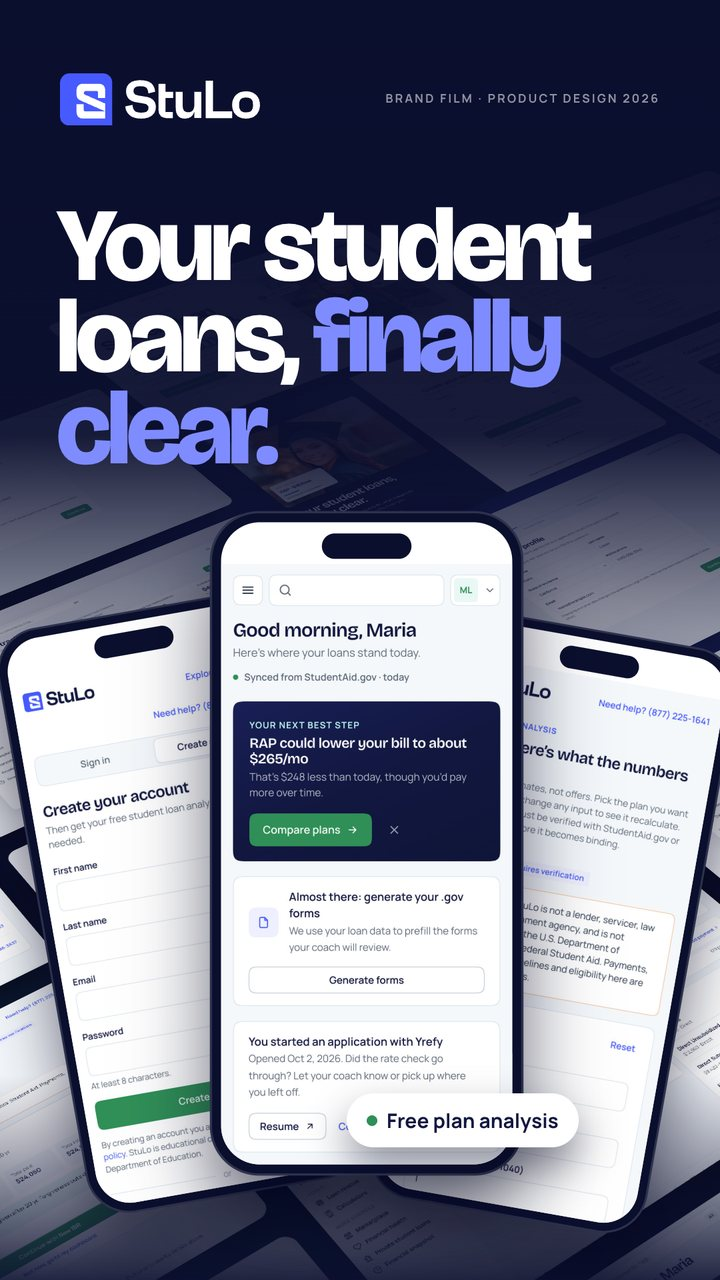
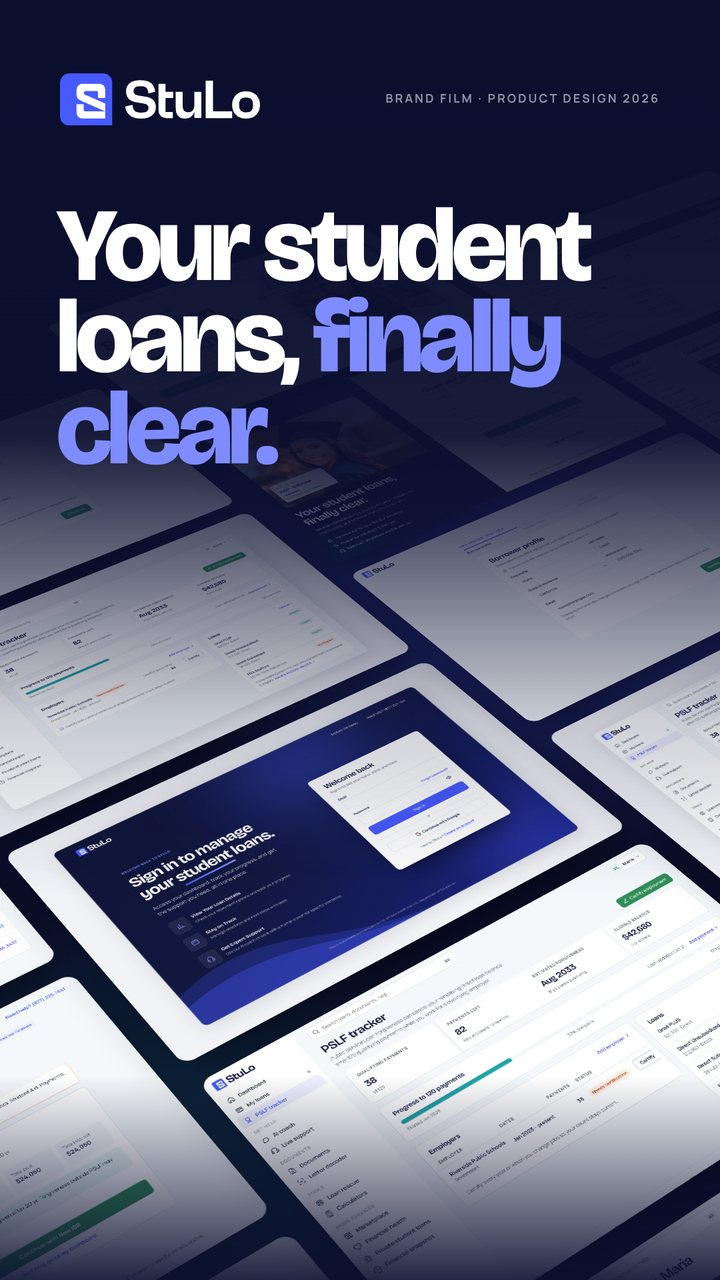
StuLo film posters: screens wall only, no phones

diff --git a/ru.html b/ru.html
@@ -1024,7 +1024,7 @@ dialog.sheet[open]{animation:pop .45s var(--ease)}
         <dl class="wk-kpi"><div><dt>Веб</dt><dd>Тип продукта</dd></div><div><dt>Дизайн-лид</dt><dd>Моя роль</dd></div><div><dt>4 недели</dt><dd>Длительность</dd></div></dl>
         <span class="wk-cta">Смотреть кейс</span>
       </div>
-      <div class="wk-vis wk-img pvw sq" data-r="20"><div class="pv-ph sq" data-r="18"><video class="cvid" src="reel/stulo/stulo-reel-card.mp4?v=2" poster="reel/stulo/stulo-reel-card.jpg?v=2" muted loop playsinline preload="none" aria-label="StuLo"></video><button class="cplay" type="button" aria-label="Воспроизвести видео"><span class="ic"><svg viewBox="0 0 16 16" fill="currentColor"><path d="M5 3.2v9.6a.6.6 0 0 0 .9.5l7.6-4.8a.6.6 0 0 0 0-1L5.9 2.7a.6.6 0 0 0-.9.5z"/></svg></span><span class="tx">Смотреть ролик</span><span class="tm">0:14</span></button></div></div>
+      <div class="wk-vis wk-img pvw sq" data-r="20"><div class="pv-ph sq" data-r="18"><video class="cvid" src="reel/stulo/stulo-reel-card.mp4?v=2" poster="reel/stulo/stulo-reel-card.jpg?v=3" muted loop playsinline preload="none" aria-label="StuLo"></video><button class="cplay" type="button" aria-label="Воспроизвести видео"><span class="ic"><svg viewBox="0 0 16 16" fill="currentColor"><path d="M5 3.2v9.6a.6.6 0 0 0 .9.5l7.6-4.8a.6.6 0 0 0 0-1L5.9 2.7a.6.6 0 0 0-.9.5z"/></svg></span><span class="tx">Смотреть ролик</span><span class="tm">0:14</span></button></div></div>
     </a>
     <a class="wk wk-photo sq" data-r="28" data-cursor="Открыть кейс +" href="cases/bookkeeper-ai.html" style="--bg:var(--band);--ih:80%;--fg:#1d1d1f;--fg2:#3a3a3c;--ln:rgba(0,0,0,.12)">
       <div class="wk-info">

diff --git a/index.html b/index.html
@@ -1024,7 +1024,7 @@ dialog.sheet[open]{animation:pop .45s var(--ease)}
         <dl class="wk-kpi"><div><dt>Web</dt><dd>Product type</dd></div><div><dt>Design Lead</dt><dd>My role</dd></div><div><dt>4 weeks</dt><dd>Duration</dd></div></dl>
         <span class="wk-cta">View case</span>
       </div>
-      <div class="wk-vis wk-img pvw sq" data-r="20"><div class="pv-ph sq" data-r="18"><video class="cvid" src="reel/stulo/stulo-reel-card.mp4?v=2" poster="reel/stulo/stulo-reel-card.jpg?v=2" muted loop playsinline preload="none" aria-label="StuLo"></video><button class="cplay" type="button" aria-label="Play video"><span class="ic"><svg viewBox="0 0 16 16" fill="currentColor"><path d="M5 3.2v9.6a.6.6 0 0 0 .9.5l7.6-4.8a.6.6 0 0 0 0-1L5.9 2.7a.6.6 0 0 0-.9.5z"/></svg></span><span class="tx">Play film</span><span class="tm">0:14</span></button></div></div>
+      <div class="wk-vis wk-img pvw sq" data-r="20"><div class="pv-ph sq" data-r="18"><video class="cvid" src="reel/stulo/stulo-reel-card.mp4?v=2" poster="reel/stulo/stulo-reel-card.jpg?v=3" muted loop playsinline preload="none" aria-label="StuLo"></video><button class="cplay" type="button" aria-label="Play video"><span class="ic"><svg viewBox="0 0 16 16" fill="currentColor"><path d="M5 3.2v9.6a.6.6 0 0 0 .9.5l7.6-4.8a.6.6 0 0 0 0-1L5.9 2.7a.6.6 0 0 0-.9.5z"/></svg></span><span class="tx">Play film</span><span class="tm">0:14</span></button></div></div>
     </a>
     <a class="wk wk-photo sq" data-r="28" data-cursor="Open case +" href="cases/bookkeeper-ai.html" style="--bg:var(--band);--ih:80%;--fg:#1d1d1f;--fg2:#3a3a3c;--ln:rgba(0,0,0,.12)">
       <div class="wk-info">

diff --git a/cases/stulo.html b/cases/stulo.html
@@ -386,7 +386,7 @@ figure{margin:0}
     </div>
     <div class="film rv">
       <div class="film-v">
-        <video id="sfilm" src="../reel/stulo/stulo-reel-9x16.mp4?v=1" poster="../reel/stulo/stulo-reel-9x16.jpg?v=2" muted loop playsinline preload="metadata" aria-label="StuLo brand film"></video>
+        <video id="sfilm" src="../reel/stulo/stulo-reel-9x16.mp4?v=1" poster="../reel/stulo/stulo-reel-9x16.jpg?v=3" muted loop playsinline preload="metadata" aria-label="StuLo brand film"></video>
         <button class="film-play" id="sfilm-play" type="button" aria-label="Play video"><span class="ic"></span><span class="tx">Play film</span><span class="tm">0:14</span></button>
         <button class="film-snd" id="sfilm-snd" type="button" aria-label="Turn sound on"></button>
       </div>
